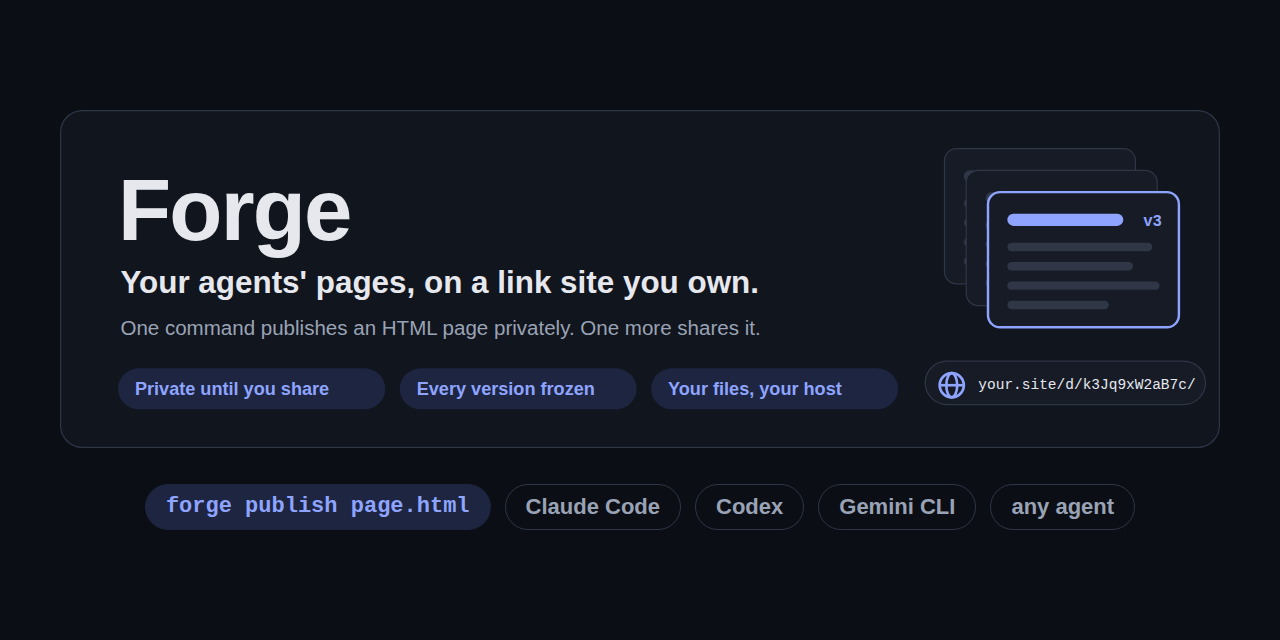
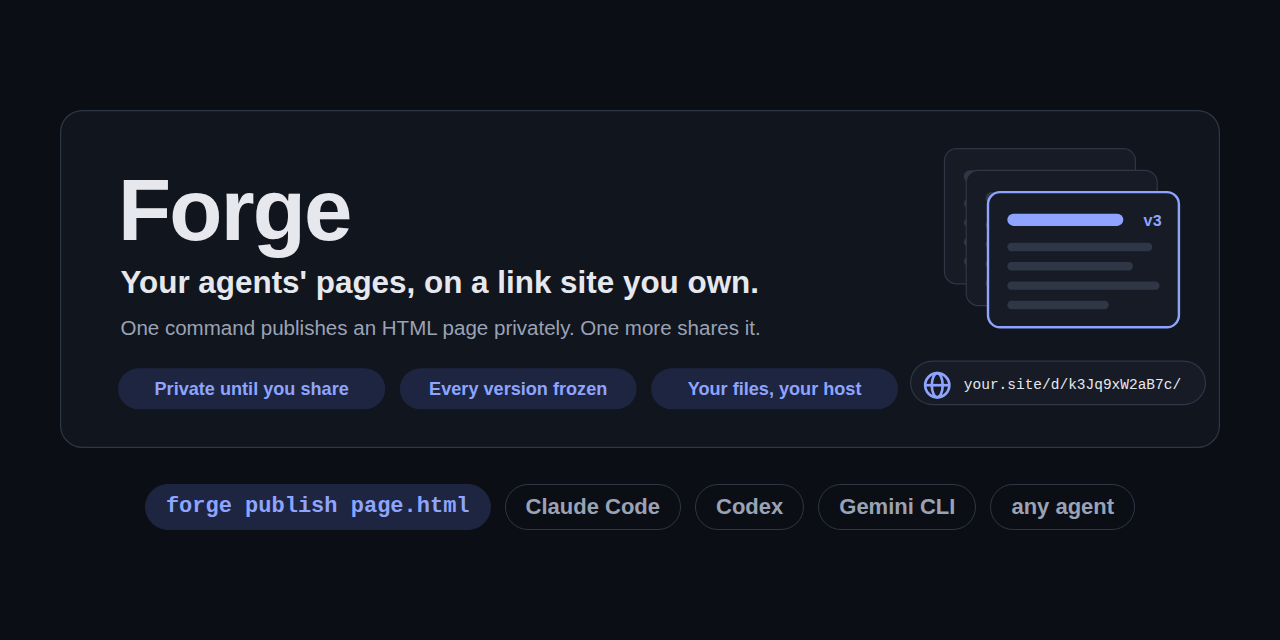
Hero pictures and preview card: badge text centred for even padding, the address pill widened (review F8)

diff --git a/docs/assets/build.js b/docs/assets/build.js
@@ -32,9 +32,9 @@ function stack(t) {
   ].join("\n");
   return [
     page(732, 32, "v1", false), page(750, 50, "v2", false), page(768, 68, "v3", true),
-    `<rect x="716" y="208" width="232" height="36" rx="18" fill="${t.card}" stroke="${t.line}"/>`,
-    globe(728, 215, t.accent),
-    text(760, 231, "your.site/d/k3Jq9xW2aB7c/", { size: 12, mono: true, fill: t.ink }),
+    `<rect x="704" y="208" width="244" height="36" rx="18" fill="${t.card}" stroke="${t.line}"/>`,
+    globe(716, 215, t.accent),
+    text(748, 231, "your.site/d/k3Jq9xW2aB7c/", { size: 12, mono: true, fill: t.ink }),
   ].join("\n");
 }
 
@@ -43,7 +43,8 @@ function hero(t) {
   let px = 48;
   const pill = pills.map((p) => {
     const w = p.length * 8.4 + 28;
-    const g = `<rect x="${px}" y="214" width="${w}" height="34" rx="17" fill="${t.accentSoft}"/>` + text(px + 14, 236, p, { size: 15, weight: 600, fill: t.accent });
+    // Centred, so the padding is even whatever font the viewer has.
+    const g = `<rect x="${px}" y="214" width="${w}" height="34" rx="17" fill="${t.accentSoft}"/>` + text(px + w / 2, 236, p, { size: 15, weight: 600, fill: t.accent, anchor: "middle" });
     px += w + 12;
     return g;
   }).join("\n");
